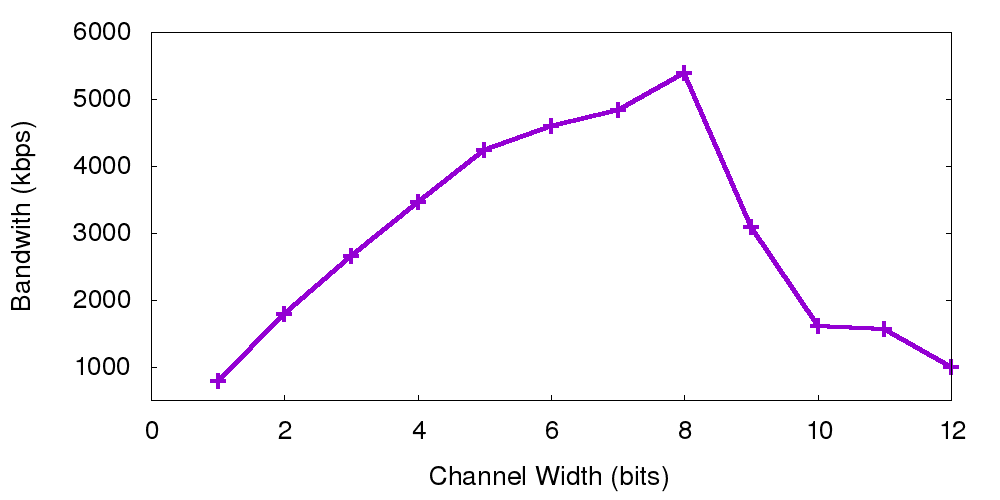
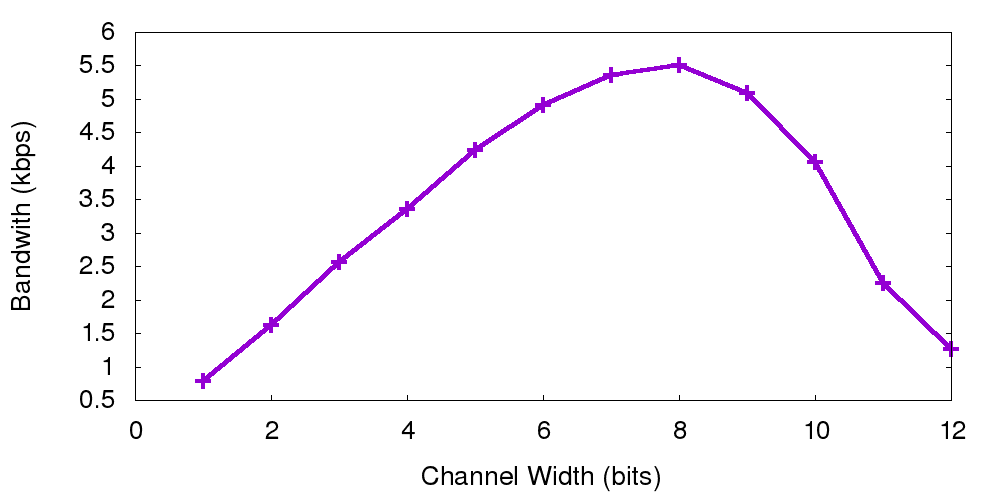
Re-ran Bandwidth test and re-generated graph

diff --git a/paper/implementation.tex b/paper/implementation.tex
@@ -37,10 +37,6 @@ While the \speculake model acheives only moderate decryption speed, the
 critical computation of the decryption is done in the speculative world. 
 
 \FigSpecBandwidth
-% implementation 
-%   Key Schedule expansion / obfuscation
-%
-% you can speculatively execute AES instructions 
 
 \subsection{Virtual Machine}
 
@@ -170,14 +166,6 @@ suite (DHE-RSA-AES128-GCM-SHA256), we similarly received no hit rate. This
 could potentially allow an adversary to use an obscure or uncommon (but still
 supported) cipher suite to trigger a malicious payload program on a remote server.
 
-
-% extract jump patterns
-% sufficiency checks 
-%
-% trigger strength
-%   - future work developing tools to determine sufficiency and strength
-%
-% OPENSSL TRIGGERING REVERSE SHELL SPASM PAYLOAD
 
 
 \subsection{Nested Speculation}

diff --git a/paper/figures.tex b/paper/figures.tex
@@ -62,7 +62,7 @@
     \centering
         \includegraphics[width=0.5\textwidth]{figures/Speculative_bandwidth}
     \caption{Speculative Bandwidth - Using the speculative primitive 
-        1KB of data can be decrypted and exfiltrated at a speed around 5500 kbps
+        1KB of data can be decrypted and exfiltrated at a speed between 5 and 6 kbps
         from the speculative world. Varying the width of the channel 
         results in competing performance factors -- decreasing the 
         number of loops vs decreased size of the probe space.}
